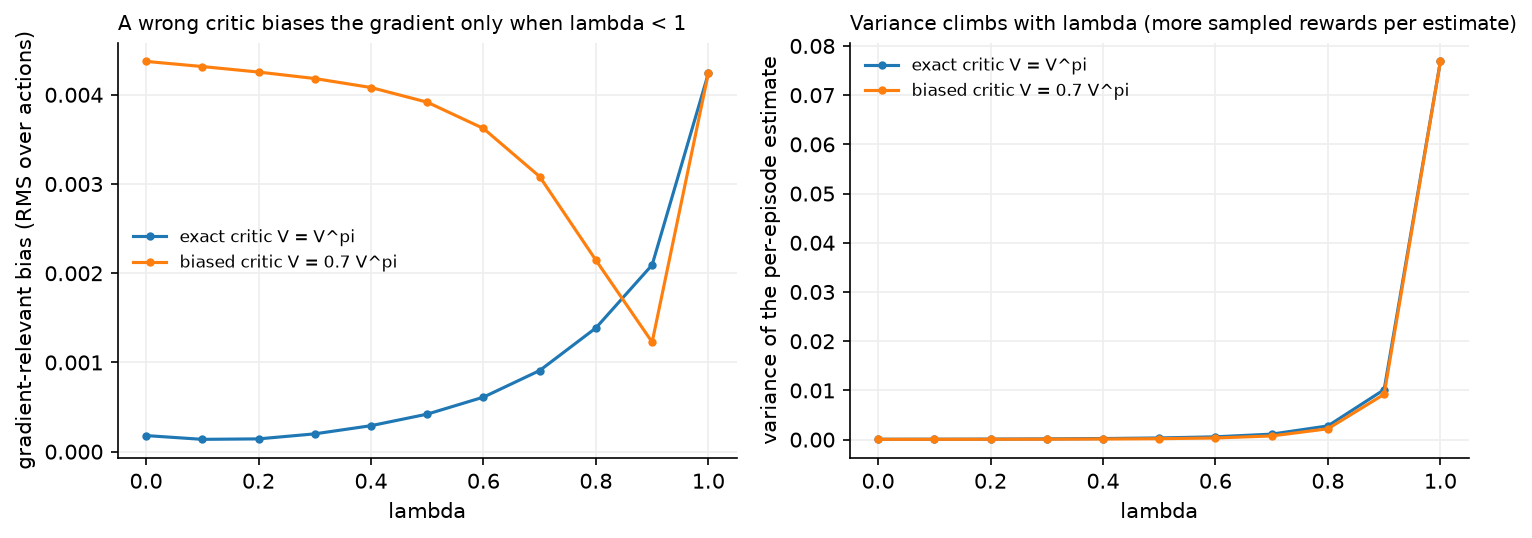
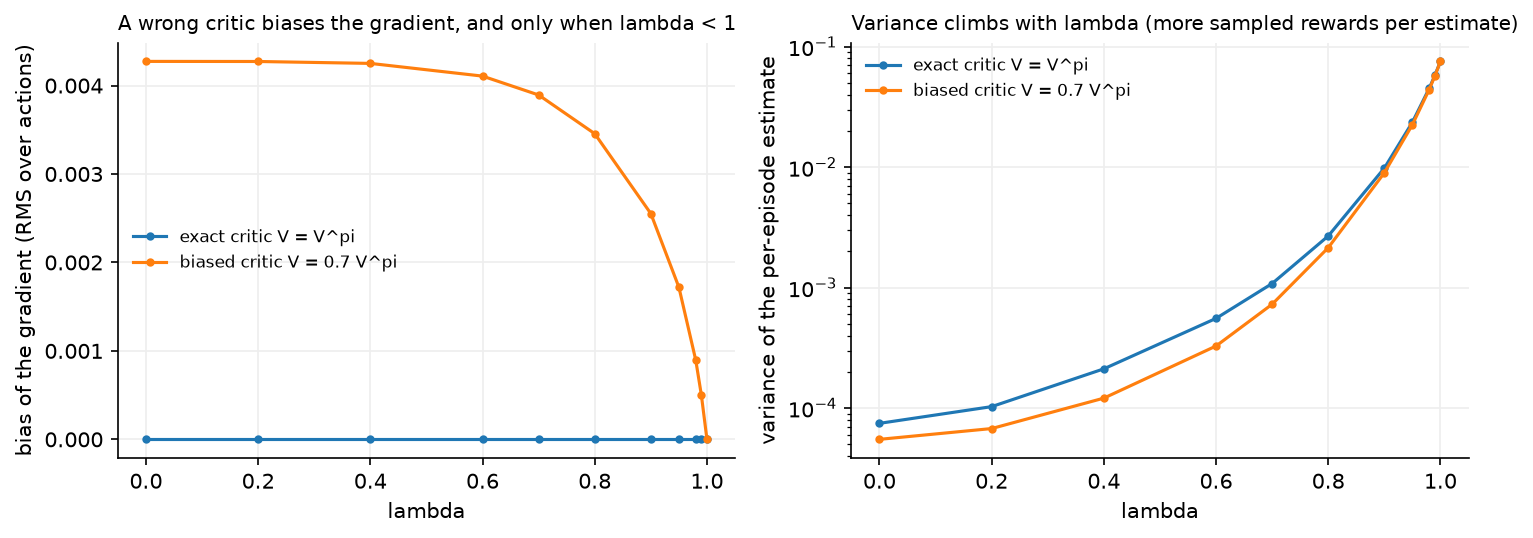
Move the citations queue out of docs/ so it is tooling, not a built page
Claude-Session: https://claude.ai/code/session_015H27xcFqfnuEV6DfXzrQek

diff --git a/scripts/check_style.py b/scripts/check_style.py
@@ -272,7 +272,7 @@ def main() -> int:
     files = sorted(f for r in roots for f in ([r] if r.is_file() else r.rglob("*.md")))
     # STYLE.md quotes every banned pattern as an example, and the citations queue
     # stores raw source titles, so neither can be held to the rules they describe.
-    files = [f for f in files if f.name != "STYLE.md" and "_citations_todo" not in f.parts]
+    files = [f for f in files if f.name != "STYLE.md" and "citations-todo" not in f.parts]
 
     n_err = n_over = 0
     counts: dict[str, int] = defaultdict(int)

diff --git a/scripts/linkify_arxiv.py b/scripts/linkify_arxiv.py
@@ -91,7 +91,7 @@ def main() -> int:
 
     roots = [Path(p) for p in args.paths] if args.paths else [ROOT / "docs"]
     files = sorted(f for r in roots for f in ([r] if r.is_file() else r.rglob("*.md")))
-    files = [f for f in files if "_citations_todo" not in f.parts]
+    files = [f for f in files if "citations-todo" not in f.parts]
 
     ids: Counter = Counter()
     total = sum(process(f, args.dry_run or args.list_ids, ids) for f in files)

diff --git a/scripts/check_markdown.py b/scripts/check_markdown.py
@@ -151,7 +151,7 @@ def main() -> int:
     args = ap.parse_args()
     roots = [Path(p) for p in args.paths] if args.paths else [DOCS]
     files = sorted(f for r in roots for f in ([r] if r.is_file() else r.rglob("*.md")))
-    files = [f for f in files if f.name != "STYLE.md" and "_citations_todo" not in f.parts]
+    files = [f for f in files if f.name != "STYLE.md" and "citations-todo" not in f.parts]
 
     total = 0
     for f in files:

diff --git a/docs/part12-rl/04-policy-gradients-ppo.md b/docs/part12-rl/04-policy-gradients-ppo.md
@@ -278,14 +278,25 @@ $$
 
 computed backwards along the trajectory, with $\hat A_{T} = 0$ past the end of an episode.
 
+One more property decides how to read the bias axis. The policy gradient is unchanged by
+any state-dependent baseline (§2.3), so a critic that is wrong by a *constant per state*
+costs nothing: its error is absorbed as a baseline. At $\lambda = 1$ the estimate is
+$G_t - V(s_t)$, and the critic enters only as that constant, so the gradient is unbiased no
+matter how bad the critic is. For $\lambda < 1$ the critic's error enters through the
+bootstrap terms $\gamma V(s_{t+l+1})$, which depend on where the *action* took you, and that
+part does bias the gradient.
+
 ![Bias and variance of the GAE advantage at the start state as lambda varies, with an exact critic and with a deliberately biased critic.](../assets/figures/part12_gae_lambda.png){ width="820" }
 
-The figure measures both panels against the true advantage $Q^\pi(s_0,a_0) - V^\pi(s_0)$
-computed by dynamic programming. With an exact critic, bias is zero for every $\lambda$ and
-only variance moves. With a biased critic ($0.7V^\pi$), the bias shrinks toward zero as
-$\lambda \to 1$, because bootstrapping is what lets the critic's error in, and variance
-climbs. Typical settings are $\lambda \in [0.9, 0.97]$, which sit where the two curves
-cross over.
+The left panel plots exactly that quantity: the error of $\E[\hat A_0 \mid s_0,a]$ against
+the dynamic-programming advantage, after removing the policy-weighted mean over actions,
+computed in closed form rather than sampled. With an exact critic it is zero at every
+$\lambda$. With the critic scaled to $0.7V^\pi$ it sits near $4.3\times10^{-3}$ until
+$\lambda \approx 0.8$ and then falls to exactly zero at $\lambda = 1$. The right panel is
+the price: the variance of the per-episode estimate rises by about three orders of
+magnitude from $\lambda = 0$ to $\lambda = 1$ (note the log axis). Typical settings are
+$\lambda \in [0.9, 0.97]$, which take most of the bias reduction before the variance
+becomes steep.
 
 ### 2.6 Why you cannot just take a big step: TRPO in one page
 

diff --git a/docs/part19-breadth-review/05-serving-data-engines.md b/docs/part19-breadth-review/05-serving-data-engines.md
@@ -55,6 +55,17 @@
     small draft model proposes tokens that the large model verifies in parallel,
     cutting latency without changing the output distribution.
 
+    The levers, by what each one actually spends:
+
+    | Lever | Cuts | Spends | Reach for it when |
+    |---|---|---|---|
+    | Quantization | bytes moved, and math on supporting hardware | accuracy, and engineering time on calibration | you are memory-bandwidth-bound, which is most decode and most edge inference |
+    | Structured pruning | FLOPs and parameters | accuracy, and a retraining cycle | you are compute-bound and the architecture is over-provisioned |
+    | Distillation | FLOPs, parameters, bytes | a full training run, and a quality ceiling set by the teacher | you can afford offline training and need a permanent win |
+    | Fusion and compilation | kernel launches, intermediate traffic | portability and build complexity | always, before you touch the model |
+    | Speculative decoding | wall-clock per token | extra memory for the draft model, and nothing in quality | decode latency dominates and acceptance rates are high |
+    | Caching | repeated compute | memory, and freshness | the input distribution is skewed |
+
     !!! interview "Staff move"
         Profile before you optimise, and say which axis you are spending. "First I
         find the actual bottleneck: compute, memory bandwidth, or data movement and

diff --git a/STYLE.md b/STYLE.md
@@ -131,7 +131,7 @@ textbook references last.
 
 If the budget runs out before you have verified everything, do not guess a URL.
 Cite by title and venue as above, and append one line per unverified source to
-`docs/_citations_todo/<your-part-dir>.md`:
+`citations-todo/<your-part-dir>.md`:
 
 ```
 - [ ] docs/part04-vision/04-detection.md | Focal Loss for Dense Object Detection | Lin et al., ICCV 2017 | believed arXiv:1708.02002
